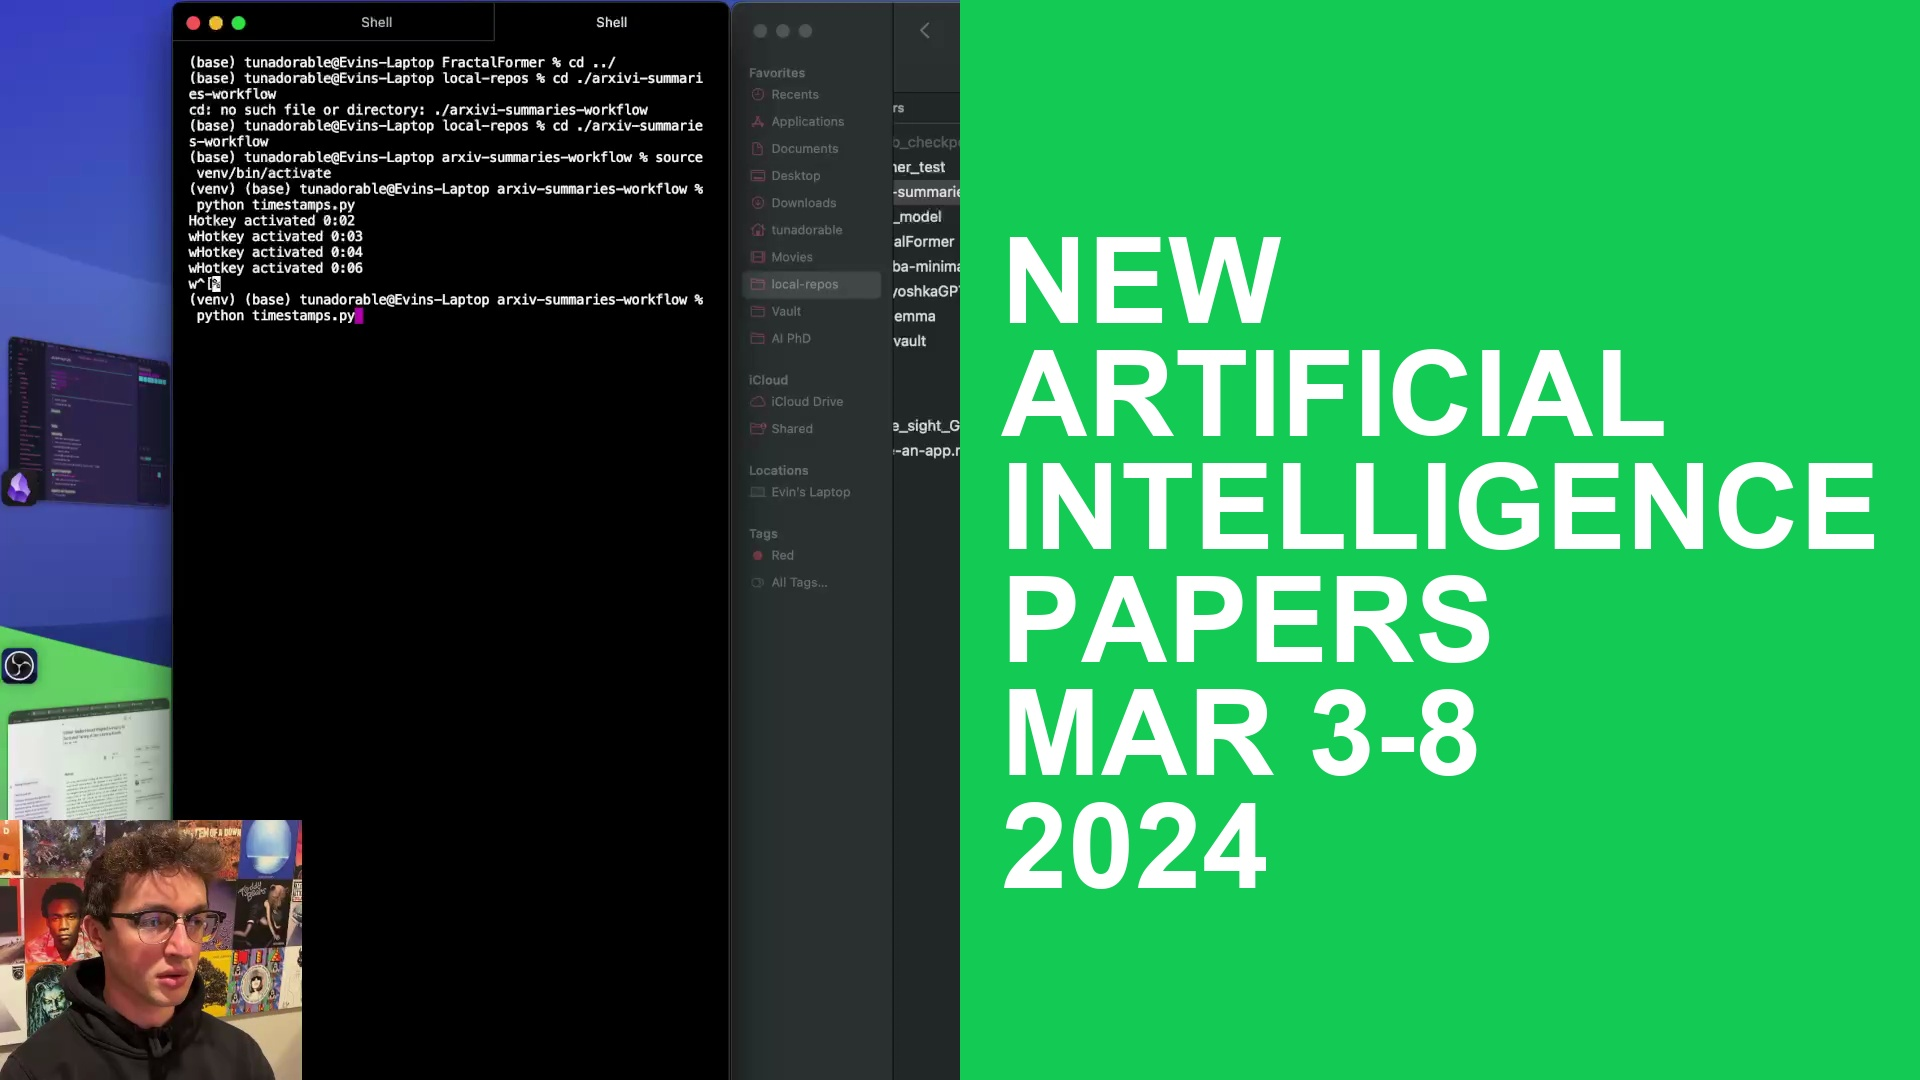
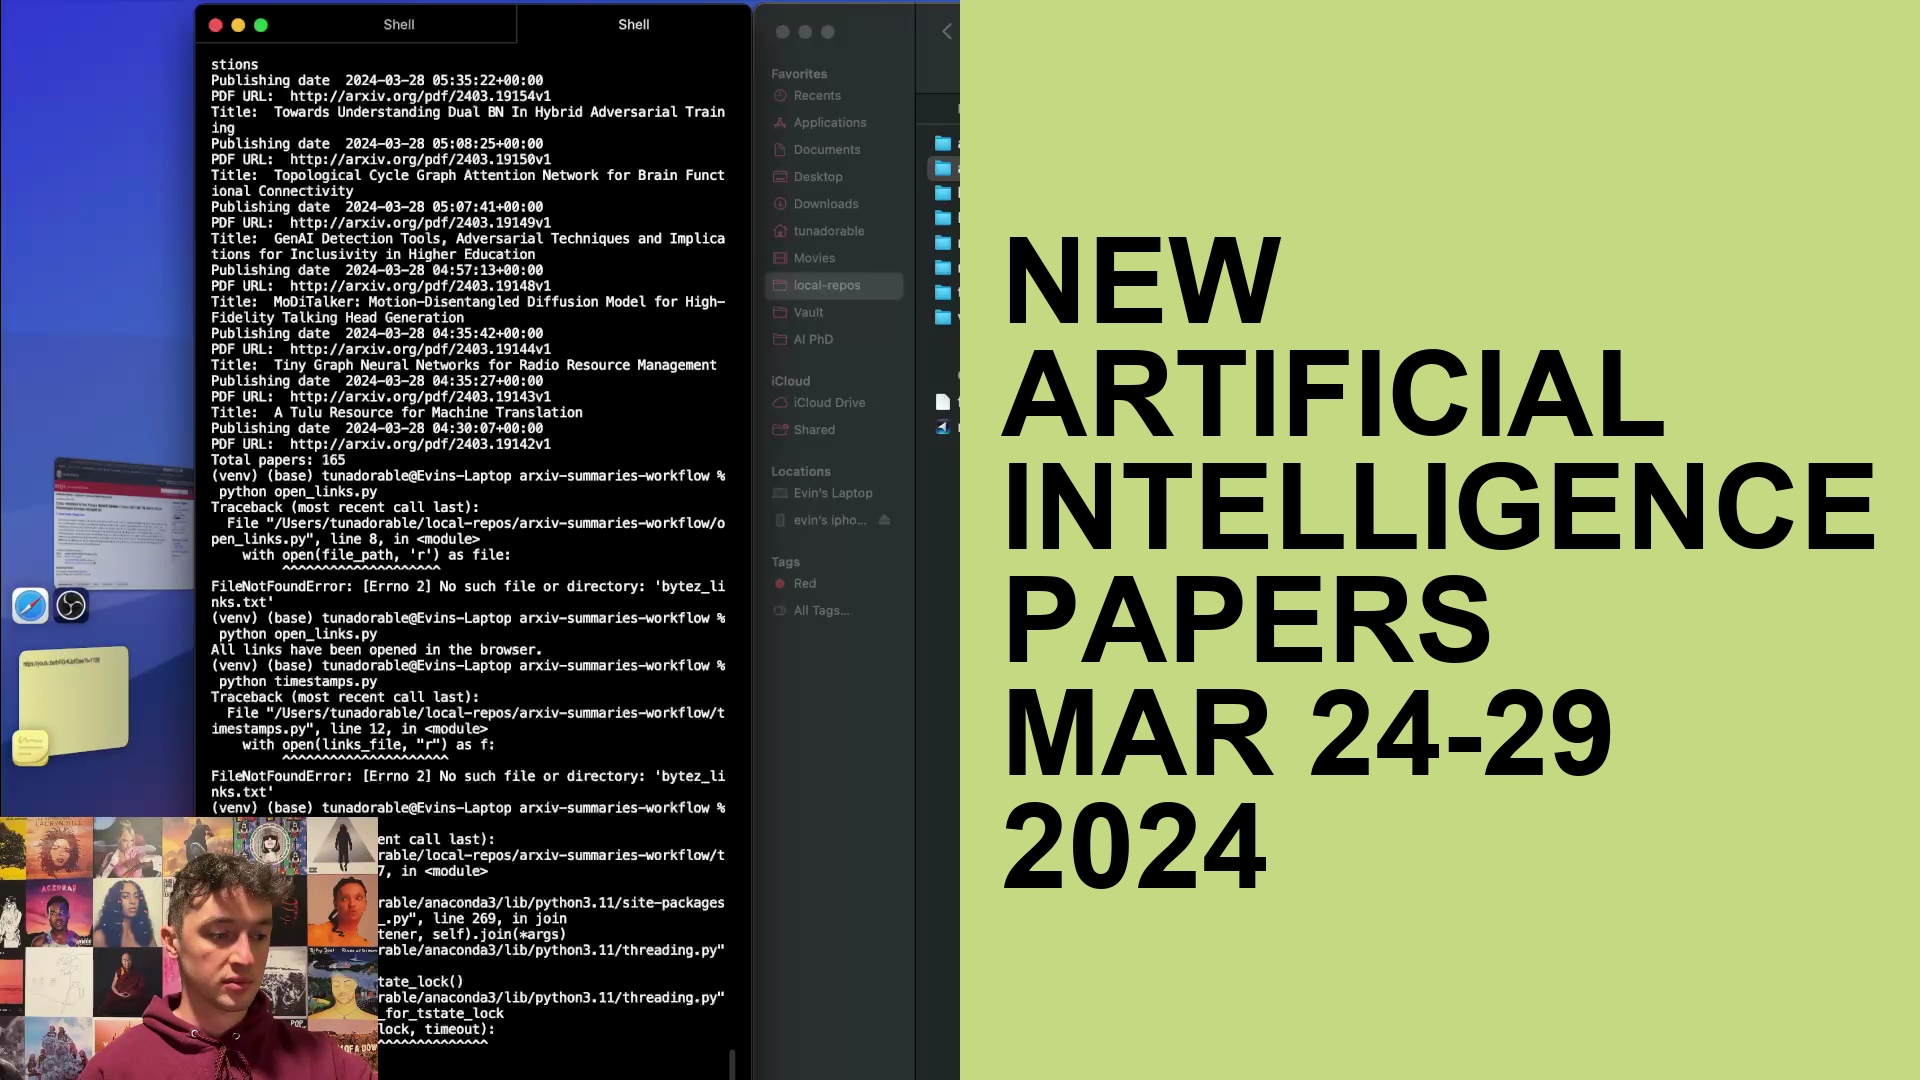
switched form bytez to arxiv links

diff --git a/arxiv-search.py b/arxiv-search.py
@@ -158,20 +158,20 @@ def download_pdf(url, filename):
 def on_button_click(url, filename):
     # Constructing bytez.com URL from arXiv URL
     arxiv_id = re.sub(r'v\d+$', '', url.split('/')[-1])
-    bytez_url = f"https://bytez.com/docs/arxiv/{arxiv_id}"
+    bytez_url = f"https://arxiv.org/abs/{arxiv_id}"
 
     # Duplicate check:
     try:
-        with open('bytez_links.txt', 'r') as file:
+        with open('links.txt', 'r') as file:
             existing_lines = file.readlines()
             if any(line.strip() == bytez_url for line in existing_lines):
-                print("URL already exists in bytez_links.txt - Skipping")
+                print("URL already exists in links.txt - Skipping")
                 return  # Skip if the URL already exists
     except FileNotFoundError:
         pass  # Ignore if the file doesn't exist yet
 
     # Write the bytez.com URL to a text file
-    with open('bytez_links.txt', 'a') as file:
+    with open('links.txt', 'a') as file:
         file.write(bytez_url + '\n')
 
     # Download the PDF in a new thread

diff --git a/generate_newsletter.py b/generate_newsletter.py
@@ -66,8 +66,7 @@ if __name__ == '__main__':
     # Write the message
     with open('newsletter.txt', 'w') as outfile:
         outfile.write(f"Welcome to Tunadorable's weekly AI newsletter, where we summarize his favorite articles of the week that he plans to read."
-                      f"\nThis article was written by gpt-3.5-turbo-16k on {today}."
-                      f"\nWARNING: CITATIONS MAY BE INCORRECT")
+                      f"\nThis article was written by gpt-3.5-turbo-16k on {today}.")
 
     # Get list of all PDF files in the input folder
     pdf_files = [f for f in os.listdir('pdfs-to-summarize/') if f.endswith('.pdf')]

diff --git a/config.py b/config.py
@@ -17,7 +17,7 @@ send_to_obsidian = True
 obsidian_vault_location = '/Users/tunadorable/Vault' #'your/obsidian/vault/location/here'
 obsidian_vault_attachments_location = '/Users/tunadorable/Vault/attachments' #'your/obsidian/vault/location/here/attachments-folder'
 # lines to add to the beginning of each summary.md file in obsidian. I've left mine in as examples
-frontmatter_lines = ['#pdf', '#needsToBeTagged', '#needsVideo', '#unread', ''] 
+frontmatter_lines = '#pdf\n#needsToBeTagged\n#needsVideo\n#unread'
 
 ### timestamps.py
 # True or False

diff --git a/timestamps.py b/timestamps.py
@@ -6,7 +6,7 @@ from config import display_reverse_alphabetical, hotkey
 timestamps = []
 start_time = time.time()
 
-links_file = "bytez_links.txt"  # Specify the links file
+links_file = "links.txt"  # Specify the links file
 
 # Read the lines of the file in reverse order
 with open(links_file, "r") as f:

diff --git a/open_links.py b/open_links.py
@@ -2,7 +2,7 @@ import webbrowser
 import time
 
 # Define the path to the file with links
-file_path = 'bytez_links.txt'
+file_path = 'links.txt'
 
 # Open the file and read the links
 with open(file_path, 'r') as file:

diff --git a/README.md b/README.md
@@ -7,9 +7,9 @@ https://youtube.com/playlist?list=PLPefVKO3tDxP7iFzaSOkOZnXQ4Bkhi9YB&si=J0Rmcmy-
 
 ## Repo Contents
 
-- `arxiv-search.py` - this script downloads papers from arXiv.org according to search criteria specified in `search_terms_include.txt` and `search_terms_exclude.txt`. It assumes by default that you only want the most recent day of papers; to change this set `restrict_to_most_recent = False` inside `config.py`. Whenever you download a file the script writes the [bytez](bytez.com) link into `bytez_links.txt` for use later
+- `arxiv-search.py` - this script downloads papers from arXiv.org according to search criteria specified in `search_terms_include.txt` and `search_terms_exclude.txt`. It assumes by default that you only want the most recent day of papers; to change this set `restrict_to_most_recent = False` inside `config.py`. Whenever you download a file the script writes the ArXiv link into `links.txt` for use later
     - `BUG` - the buttons are frequently unresponsive. I have to just mash the button and eventually it'll work. If anyone knows why `tkinter` does this pls lmk, but honeslty it's such a non-issue and I'm so tired that I'm not even gonna look it up. Likely will get fixed in future.
-- `open_links.py` - this opens all of the links in `bytez_links.txt` in your browser
+- `open_links.py` - this opens all of the links in `links.txt` in your browser
 - `generate_newsletter.py` - this will consume all PDFs in the `pdfs-to-summarize/` folder and use OpenAI's API to generate summaries which will go into `newsletter.txt`. It then turns this newsletter into an mp3 file for a podcast using OpenAI's TTS
 - `timestamps.py` - a script that generates youtube chapter timestamps based on the pdfs that have been summarized. Hit a configurable hotkey to (I use `w` since the command to close tabs in safari is `cmd+w`) to indicate that a new yt chapter should start, and `esc` to end the script. Creates `timestamps.txt` which is what I copy & paste into my yt description. This script likely requires you go into your computer's settings and allow special permissions in order for it to monitor your keyboard
 - `daily-thumbnail.py` - creates a simple thumbnail for my YT videos after they've been recorded. Basically a screenshot is taken from the video then the right half of the screen gets overlayed with a random color and either black or white text is written on that random color. By default the text says "New AI Papers Published MMM DD YYYY" but you can change this by calling it like in the example below.
